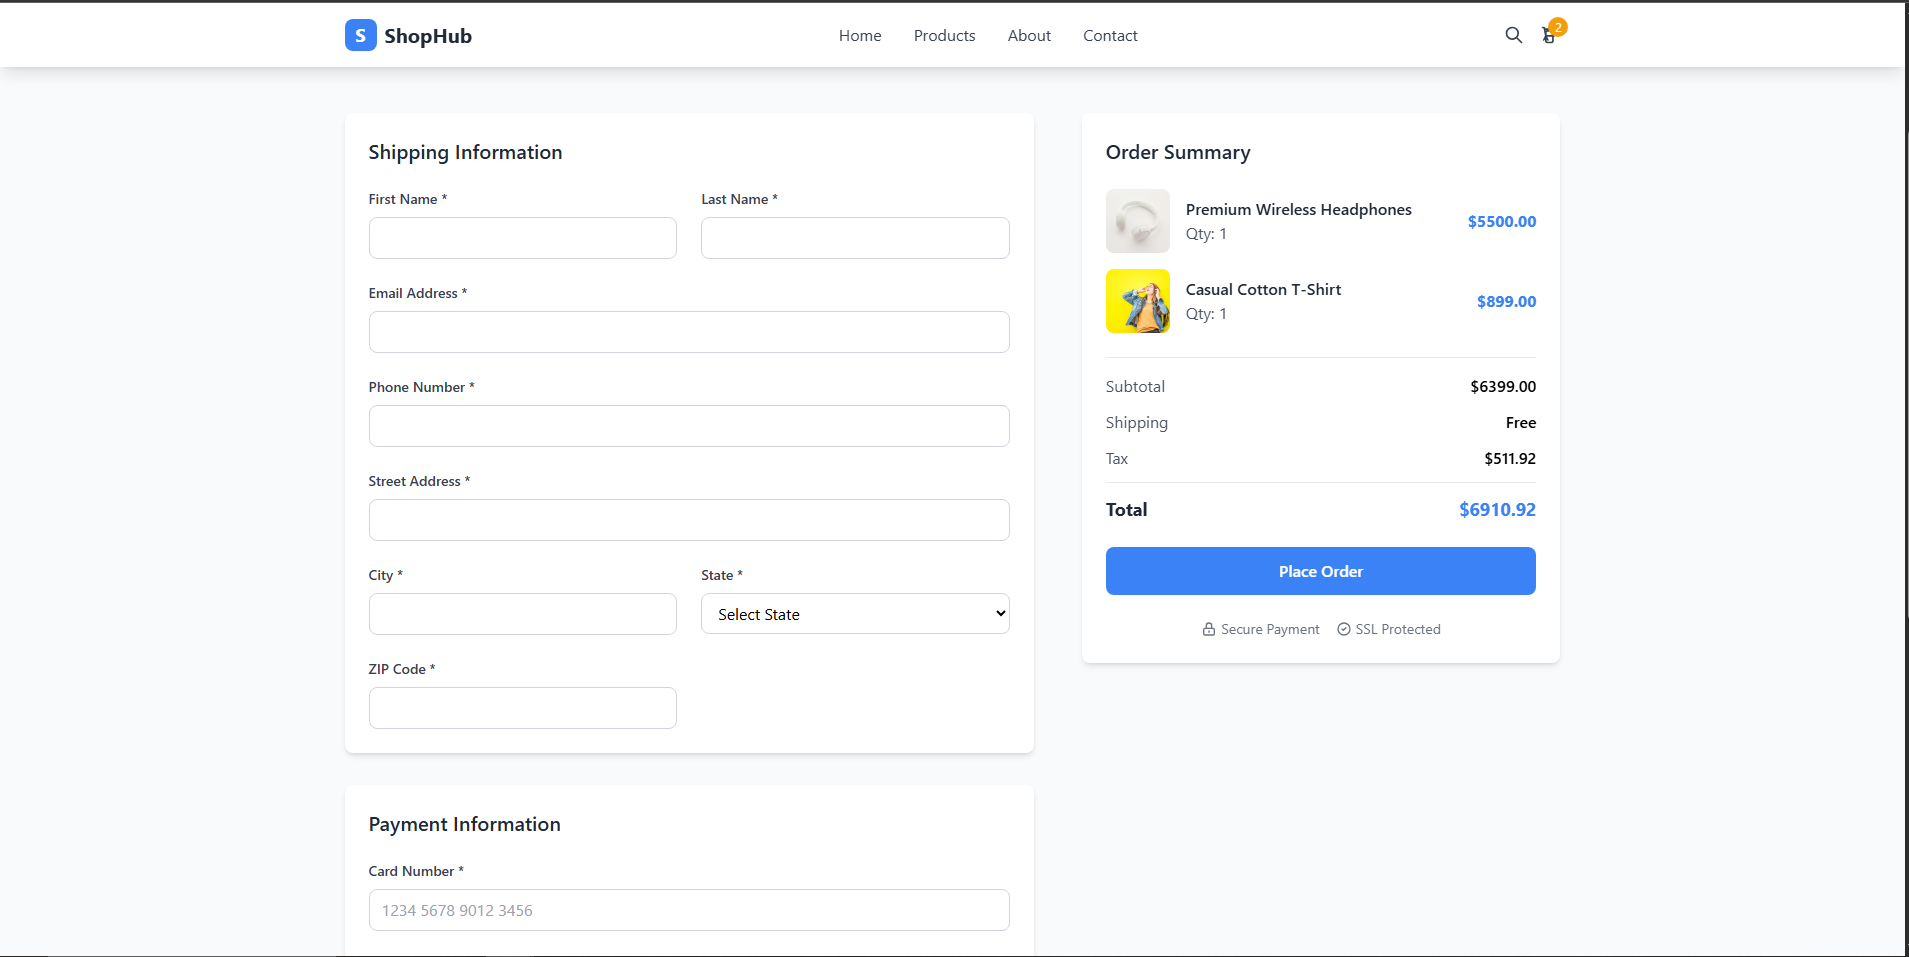
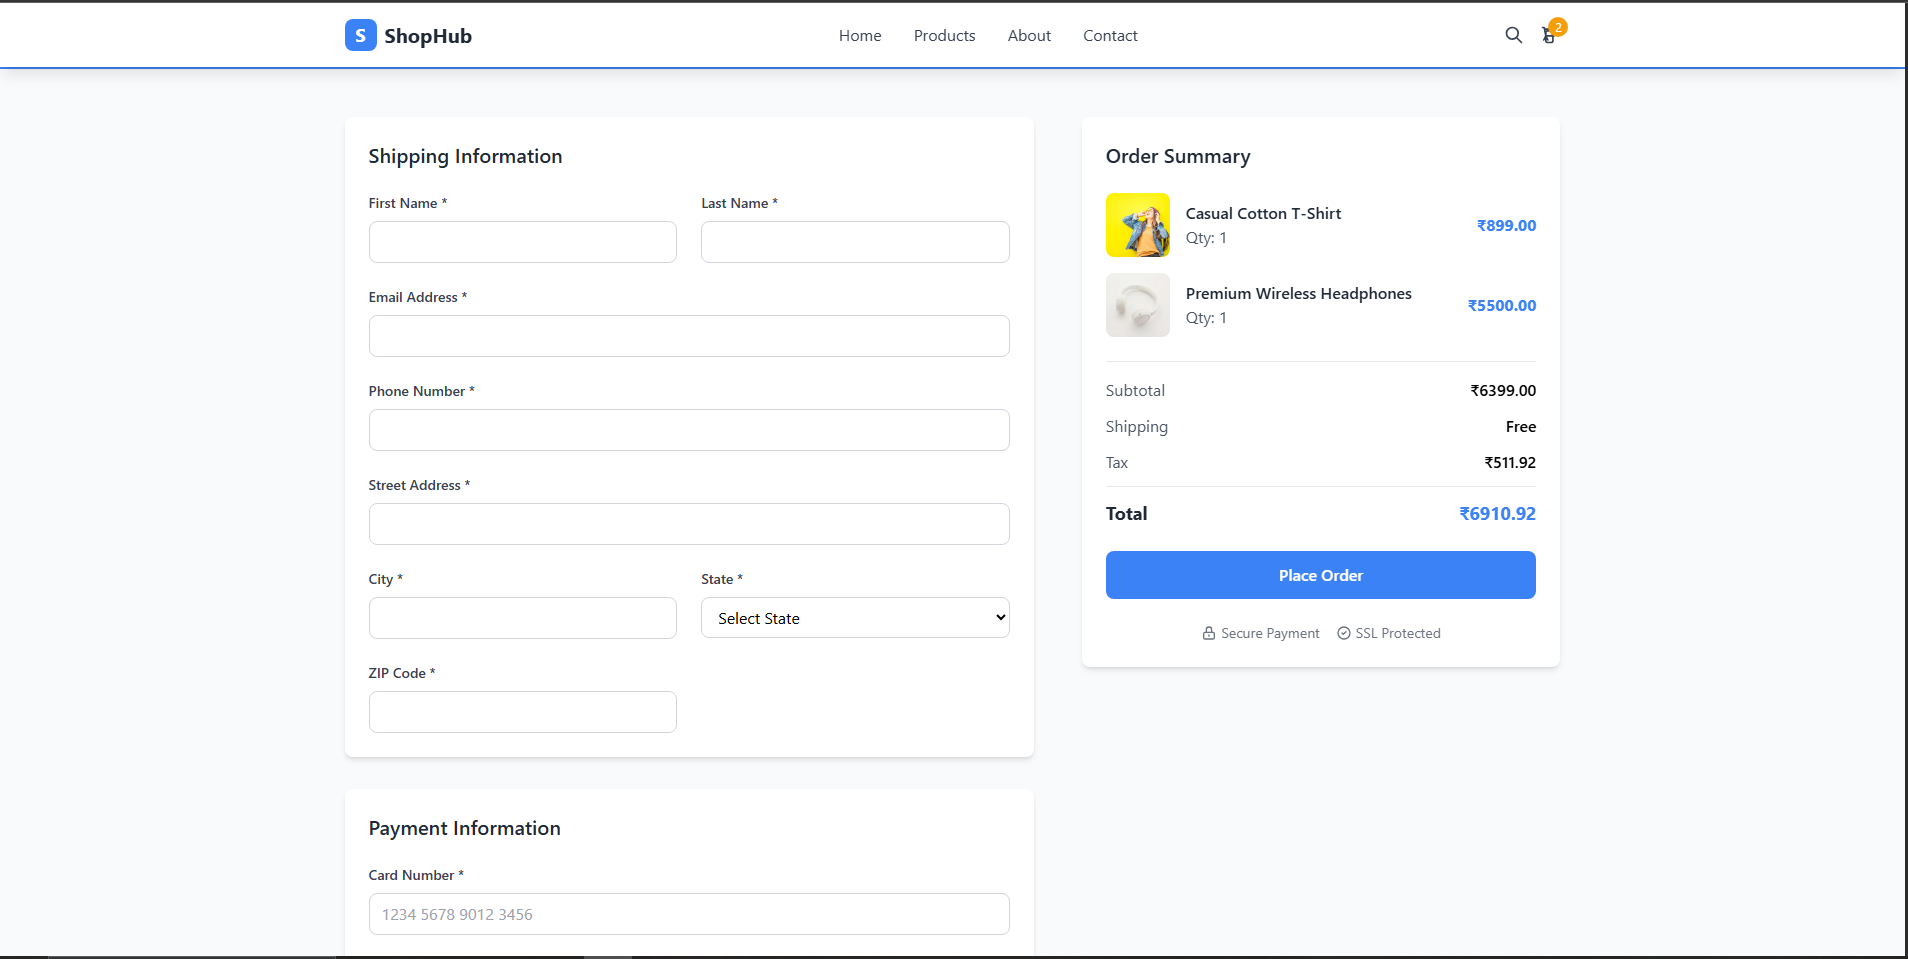
Update code and screenshots

diff --git a/checkout.html b/checkout.html
@@ -315,7 +315,7 @@
                                             <h3 class="font-semibold text-gray-800">${item.name}</h3>
                                             <p class="text-gray-600">Qty: ${item.quantity}</p>
                                         </div>
-                                        <p class="font-bold text-primary">$${(item.price * item.quantity).toFixed(2)}</p>
+                                        <p class="font-bold text-primary">₹${(item.price * item.quantity).toFixed(2)}</p>
                                     </div>
                                 `).join('')}
                             </div>
@@ -324,20 +324,20 @@
                             <div class="border-t border-gray-200 pt-4 space-y-3">
                                 <div class="flex justify-between">
                                     <span class="text-gray-600">Subtotal</span>
-                                    <span class="font-semibold">$${subtotal.toFixed(2)}</span>
+                                    <span class="font-semibold">₹${subtotal.toFixed(2)}</span>
                                 </div>
                                 <div class="flex justify-between">
                                     <span class="text-gray-600">Shipping</span>
-                                    <span class="font-semibold">${shipping === 0 ? 'Free' : '$' + shipping.toFixed(2)}</span>
+                                    <span class="font-semibold">${shipping === 0 ? 'Free' : '₹' + shipping.toFixed(2)}</span>
                                 </div>
                                 <div class="flex justify-between">
                                     <span class="text-gray-600">Tax</span>
-                                    <span class="font-semibold">$${tax.toFixed(2)}</span>
+                                    <span class="font-semibold">₹${tax.toFixed(2)}</span>
                                 </div>
                                 <div class="border-t border-gray-200 pt-3">
                                     <div class="flex justify-between">
                                         <span class="text-lg font-bold text-gray-800">Total</span>
-                                        <span class="text-lg font-bold text-primary">$${total.toFixed(2)}</span>
+                                        <span class="text-lg font-bold text-primary">₹${total.toFixed(2)}</span>
                                     </div>
                                 </div>
                             </div>
